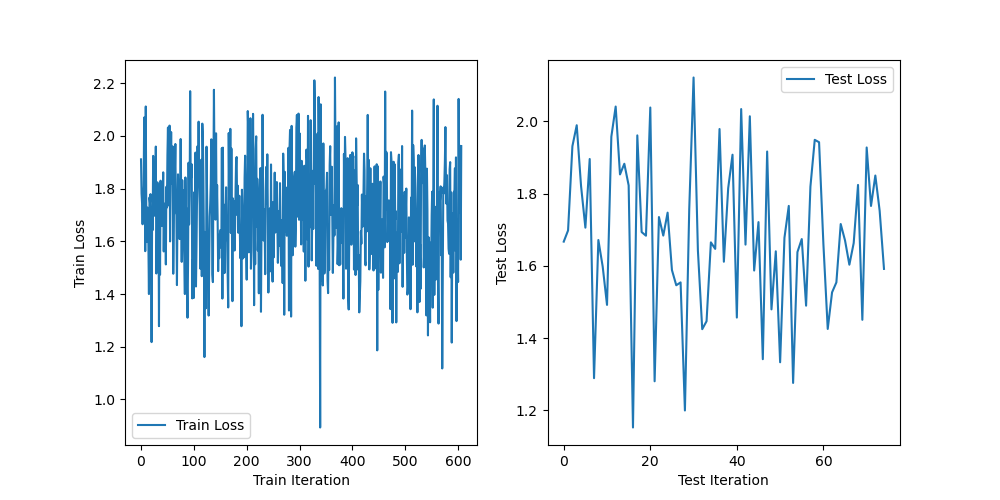
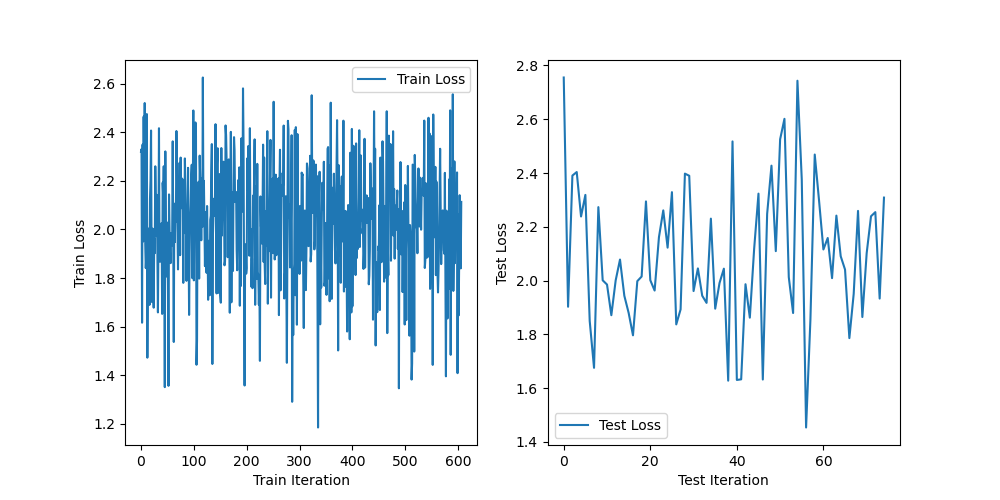
introduce pack_padded_sequence

diff --git a/main.py b/main.py
@@ -80,13 +80,15 @@ if __name__ == '__main__':
         params = list(encoder.embedding.parameters()) + list(decoder.parameters())
         optimizer = torch.optim.Adam(params, lr)
         for epoch in range(num_epochs - training_starting_file):
-            for i_step, (imgs, captions, _) in enumerate(train_loader):
+            for i_step, (imgs, captions, seq_lens) in enumerate(train_loader):
                 encoder.zero_grad()
                 decoder.zero_grad()
                 imgs = imgs.to(device)
                 captions = captions.to(device)
                 img_features = encoder(imgs)
-                output = decoder(img_features, captions)
+                # seq_lens = [seq_len + 1 for seq_len in seq_lens] TODO: How to correctly handle the pre-injected image features
+                seq_lens = torch.tensor(seq_lens).to(device)
+                output = decoder(img_features, captions, seq_lens)
                 captions = torch.reshape(captions, (-1,))
                 loss = criterion(output, captions)
                 loss.backward()
@@ -109,11 +111,12 @@ if __name__ == '__main__':
         print("\ntesting:")
         test_loss = []
         total_steps = math.floor(int(dataset.__len__() * (1 - training_percentage)) / batch_size)
-        for i_step, (imgs, captions, _) in enumerate(test_loader):
+        for i_step, (imgs, captions, seq_lens) in enumerate(test_loader):
             imgs = imgs.to(device)
             captions = captions.to(device)
+            seq_lens = torch.tensor(seq_lens).to(device)
             img_features = encoder(imgs)
-            output = decoder(img_features, captions)
+            output = decoder(img_features, captions, seq_lens)
             captions = torch.reshape(captions, (-1,))
             loss = criterion(output, captions)
             L = loss.item()

diff --git a/models/decoder.py b/models/decoder.py
@@ -1,5 +1,6 @@
 import torch
 import torch.nn as nn
+from torch.nn.utils.rnn import pack_padded_sequence, pad_packed_sequence
 
 
 class Decoder(nn.Module):
@@ -15,14 +16,20 @@ class Decoder(nn.Module):
         self.embedding = nn.Embedding(self.vocabulary_size, self.embedding_size)
         self.fc = nn.Linear(self.hidden_dim, self.output_size)
 
-    def forward(self, image_features, captions):
+    def forward(self, image_features, captions, seq_lens):
         batch_size = captions.shape[0]
         hidden_0 = self.init_hidden(batch_size)
         hidden_0 = hidden_0.to(self.device)
         captions = captions[:, :-1]     # TODO: this might be wrong, the goal is to remove '[EOS]' token
+        sorted_lens, sorted_indices = seq_lens.sort(descending=True)
         embedding_captions = self.embedding(captions)
-        embedding_captions = torch.cat((image_features.unsqueeze(1), embedding_captions), 1)    # Pre-inject
-        out, hidden = self.rnn(embedding_captions, hidden_0)
+        embedding_captions = torch.cat((image_features.unsqueeze(1), embedding_captions), 1)    # Pre-inject'
+        sorted_embedding_captions = embedding_captions[sorted_indices]
+        packed_input = pack_padded_sequence(sorted_embedding_captions, sorted_lens.cpu().numpy(), batch_first=True)
+        packed_out, hidden = self.rnn(packed_input, hidden_0)
+        out, _ = pad_packed_sequence(packed_out, batch_first=True)
+        _, original_indices = sorted_indices.sort()
+        out = out[original_indices]
         out = out.contiguous().view(-1, self.hidden_dim)
         out = self.fc(out)
 

diff --git a/data/collator.py b/data/collator.py
@@ -16,4 +16,4 @@ class MyCollate:
             seq_lens.append(len(item[1]))
         targets = pad_sequence(targets, False, self.pad_idx)  # padding in which dimension?
         targets = torch.transpose(targets, 0, 1)
-        return imgs, targets, torch.tensor(seq_lens)
+        return imgs, targets, seq_lens
